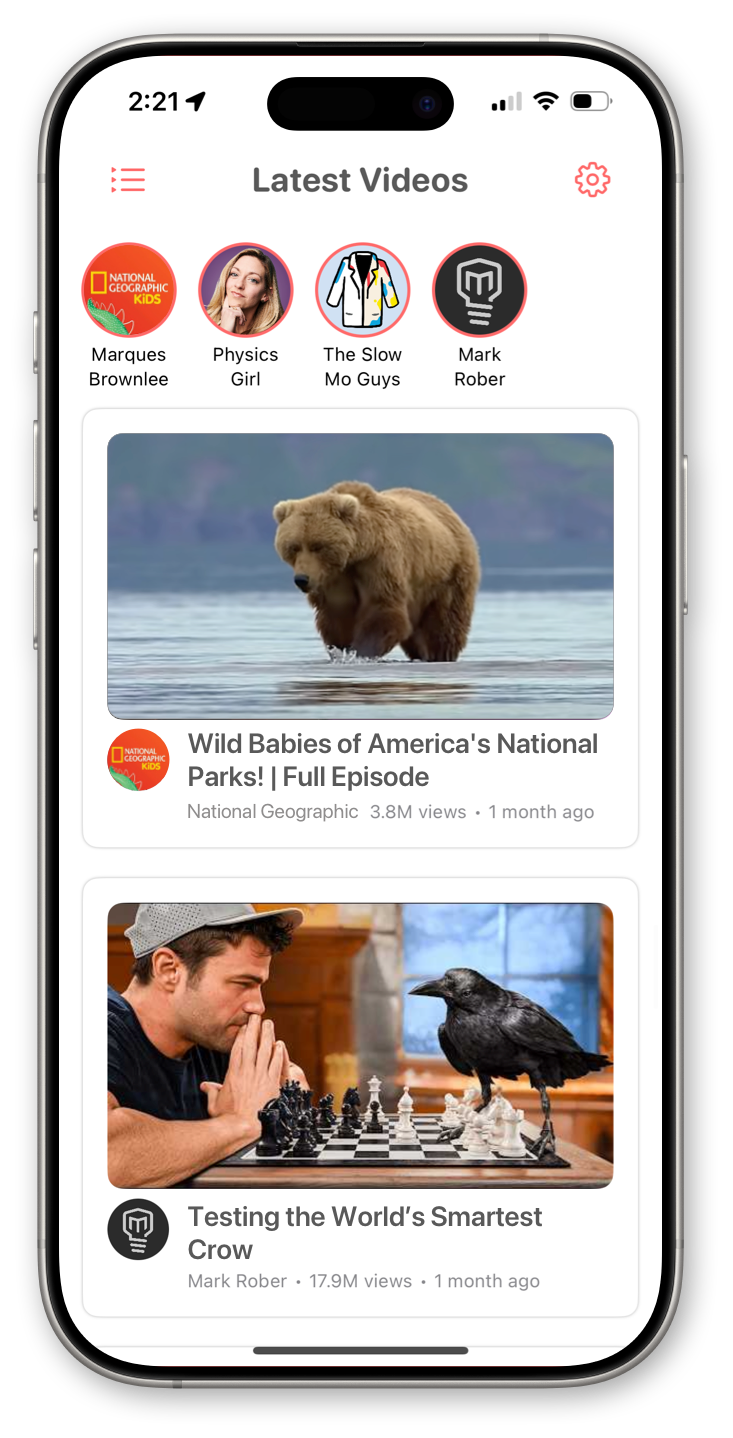
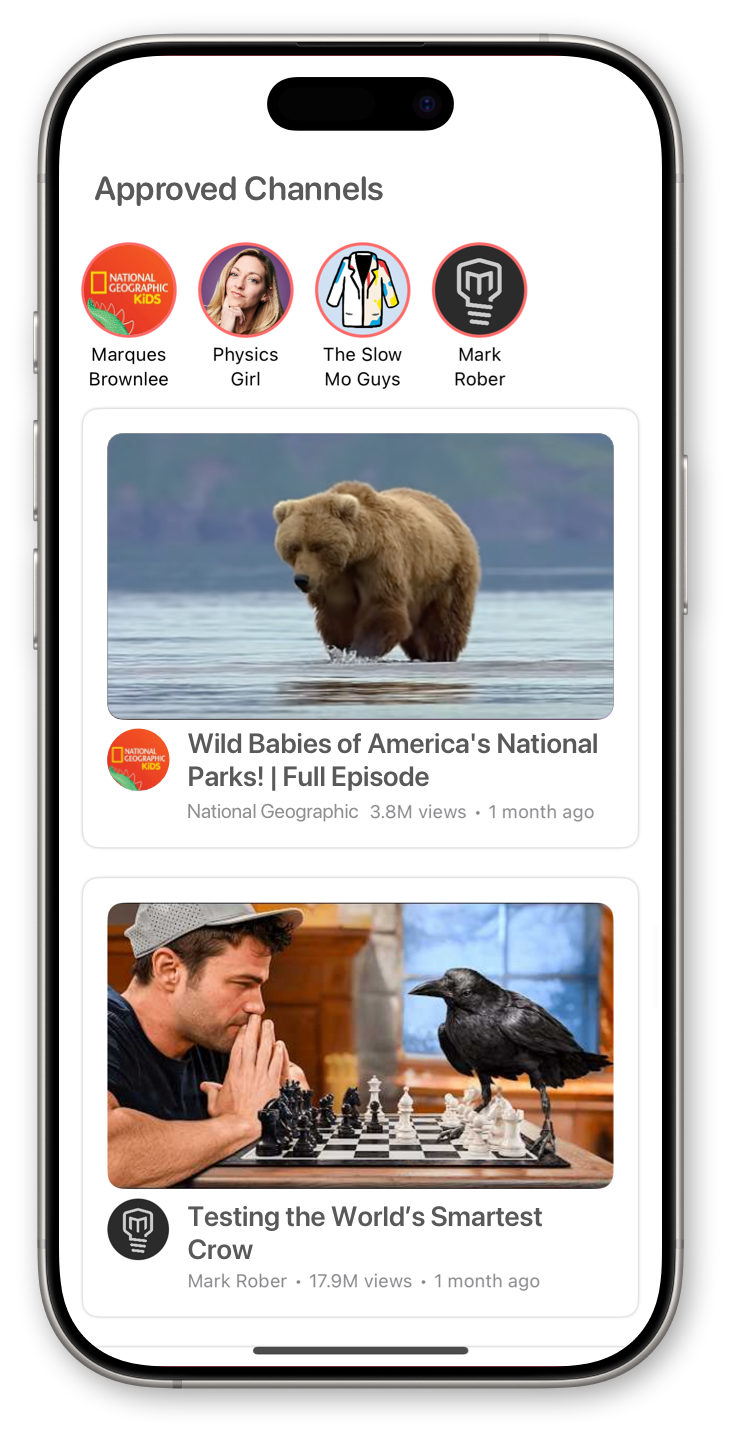
update hero

diff --git a/index.html b/index.html
@@ -4,7 +4,6 @@
   <meta charset="UTF-8">
   <meta name="viewport" content="width=device-width, initial-scale=1.0">
 
-  <meta name="description" content="Visor is a kid-safe YouTube app that lets parents approve every channel. No Shorts, no comments, no ads, no weird surprises—just content you trust." />
   <meta name="keywords" content="YouTube approved channels, YouTube for kids, parent approved YouTube, YouTube parental controls, safe YouTube app, only approved content, kids YouTube app, family YouTube app, watch approved channels only, block YouTube channels">
   <meta property="og:title" content="Visor – YouTube, Filtered by You" />
   <meta property="og:description" content="Create a safe YouTube experience. Approve channels, filter content, and let your kids explore only what you trust." />
@@ -80,9 +79,9 @@
   <!-- Hero Section -->
   <section class="hero-section">
     <div class="hero-content container-slim">
-      <h1>Only the YouTube Channels You Approve</h1>
+      <h1>A better way for kids to watch YouTube</h1>
       <p class="hero-subtitle d-none d-md-block">
-        You Approve. They Explore. Everyone Wins.
+        Only the channels you approve.
       </p>
     </div>
 
@@ -93,8 +92,9 @@
           <source media="(max-width: 576px)" srcset="assets/hero-1-mobile.webp">
           <img src="assets/hero-1.webp" alt="Explore view on iPad and dashboard on iPhone">
         </picture>
+      </div>
     </div>
-    
+
     <!-- Mobile-first order -->
     <p class="hero-paragraph mx-auto d-block d-md-none mb-3" aria-hidden="true">
       Your kids watch only the channels you allow&mdash;simple, safe, and stress-free, exactly how it should be.

diff --git a/main.css b/main.css
@@ -119,10 +119,10 @@ p {
   margin: 0 auto;
   text-align: center;
   line-height: 1.6;
-  font-size: 1.8rem !important;
+  font-size: 1.35rem !important;
   color: #6c757d;
-  padding-top: 50px;
-  padding-bottom: 100px;
+  padding-top: 20px;
+  padding-bottom: 60px;
 }
 
 .last-paragraph {
@@ -131,19 +131,24 @@ p {
   padding-bottom: 20px;
 }
 
-/* Hero visual */
+/* Hero visual - desktop/tablet */
 .hero-visual-wrapper {
   width: 100%;
-  display: flex;
-  justify-content: center;
-  margin-bottom: 2rem;
+  margin: 20px auto 18px;
+  padding: 0 16px;
 }
 
 .hero-visual {
-  position: relative;
-  max-width: 960px;
+  max-width: min(1200px, 80vw);
+  max-height: 65vh;
+  margin: 0 auto;
+}
+
+.hero-visual img {
   width: 100%;
-  aspect-ratio: 16 / 9;
+  height: auto;
+  max-height: 65vh;
+  object-fit: contain;
 }
 
 .cta-btn {
@@ -469,7 +474,7 @@ opacity: 0.5;
 .testimonials-row {
   overflow-x: auto;
   overflow-y: visible;
-  /*padding-bottom: 4px; /* room for scrollbar */*/
+  /*padding-bottom: 4px; /* room for scrollbar */
 }
 
 /* Hide horizontal scrollbar (keeps scroll functionality) */
